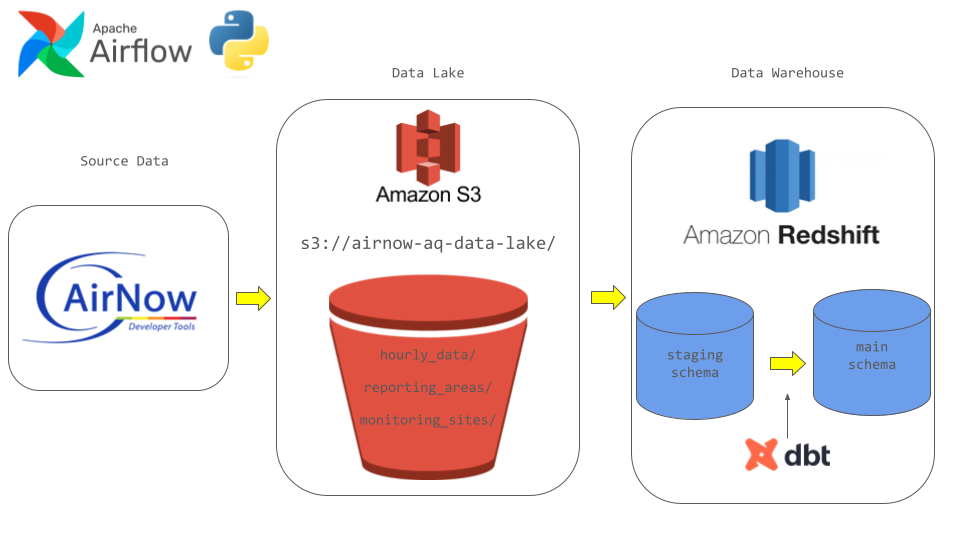
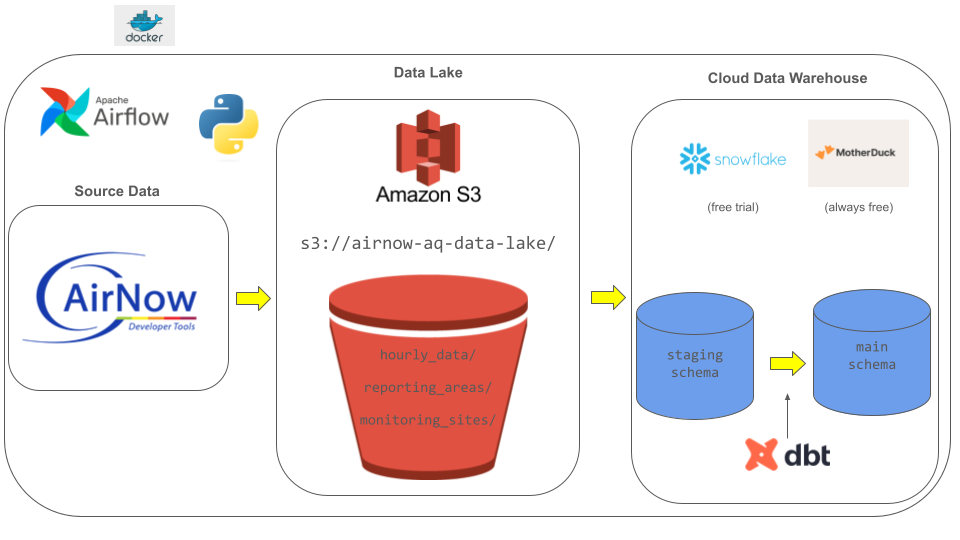
update data pipeline image and readme

diff --git a/README.md b/README.md
@@ -14,7 +14,7 @@ Access to comprehensive air quality data empowers policymakers, researchers, and
 The ETL pipeline begins with data ingestion from the AirNow API, followed by conversion into the Parquet format for optimized storage efficiency. The Parquet format is chosen to minimize storage costs while maintaining data integrity. The transformed data is then securely stored in an Amazon S3 bucket.
 
 ##### Data Warehousing 
-Once stored in Amazon S3, the data is loaded into an Amazon Redshift data warehouse, where it undergoes further transformations and modeling. Leveraging the power of Redshift, the data is structured into a cohesive data model using DBT (Data Build Tool). This step prepares the data for seamless analysis and reporting.
+Once stored in Amazon S3, the data is loaded into a data warehouse using both the MotherDuck and Snowflake platforms, where it undergoes further transformations and modeling. I chose to use MotherDuck as it is a cloud data warehouse that is free to use until further notice so I can keep my data in there for longer, and Snowflake as they offer a free 30 day trial. The data is structured inside the warehouse into a cohesive data model using DBT (Data Build Tool), preparing the data for seamless analysis and reporting. 
 
 ##### Orchestration with Airflow
 Airflow serves as the backbone of the ETL pipeline, orchestrating and scheduling each step. Hosted within Docker containers, Airflow ensures reliable execution of daily data retrieval, storage, and loading processes.
